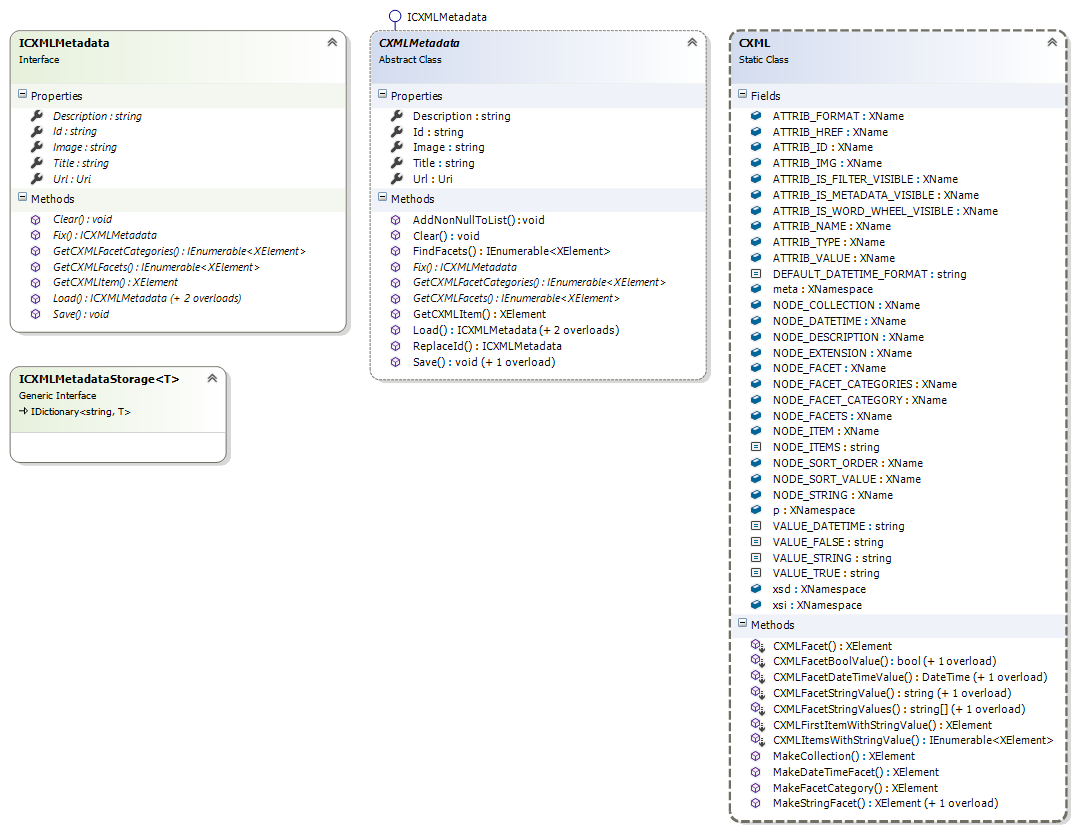
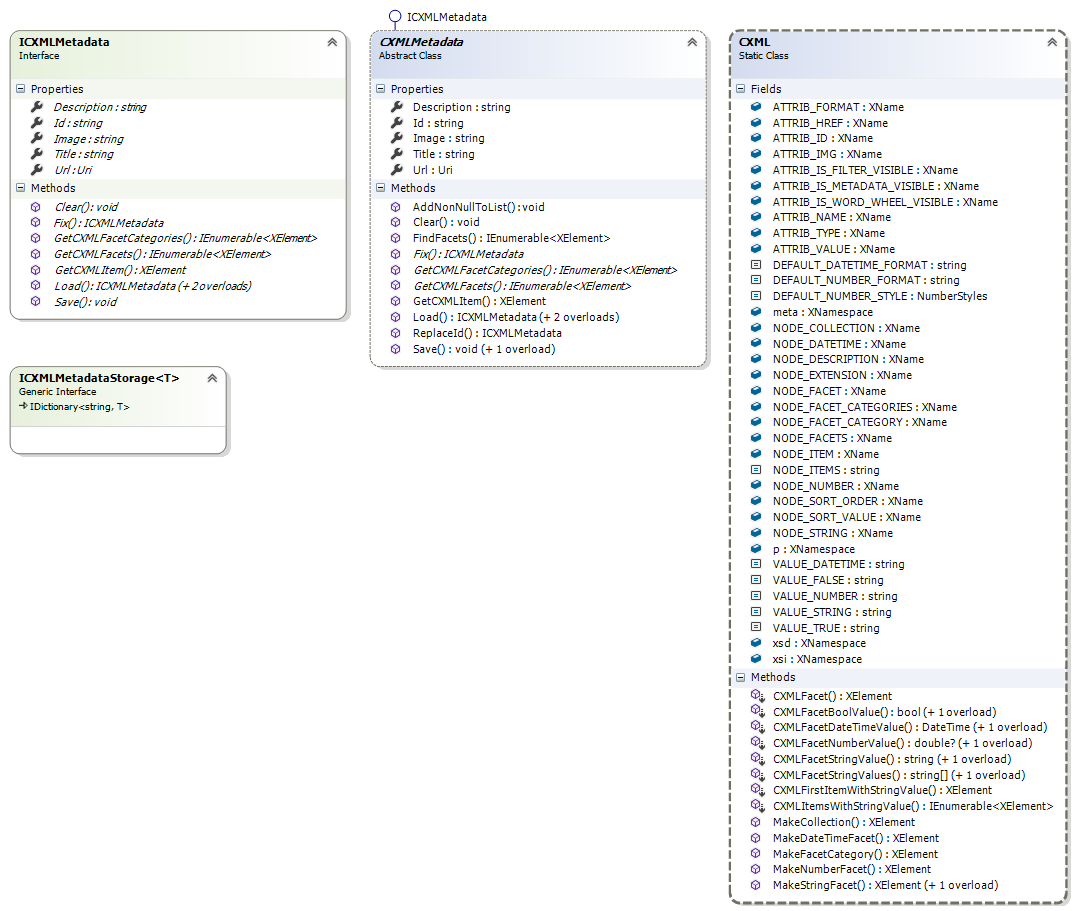
- Using 0.# format for Numbers

Changed region(s): [[0.0, 0.0, 1.0, 0.994], [0.9823, 0.4819, 1.0, 0.512]]

diff --git a/Metadata/CXML.cs b/Metadata/CXML.cs
@@ -62,7 +62,7 @@ namespace Metadata.CXML
     public const string VALUE_FALSE = "False";
 
     public const NumberStyles DEFAULT_NUMBER_STYLE = NumberStyles.Integer | NumberStyles.AllowDecimalPoint;
-    public const string DEFAULT_NUMBER_FORMAT = "F"; //use with CultureInfo.InvariantCulture to have "." for decimal separator
+    public const string DEFAULT_NUMBER_FORMAT = "0.#"; //use with CultureInfo.InvariantCulture to have "." for decimal separator
     public const string DEFAULT_DATETIME_FORMAT = "yyyy-MM-ddThh:mm:ss"; //this format is also used at MSDN Magazine Collection (http://pivot.blob.core.windows.net/msdn-magazine/msdnmagazine.cxml)
 
     #endregion
